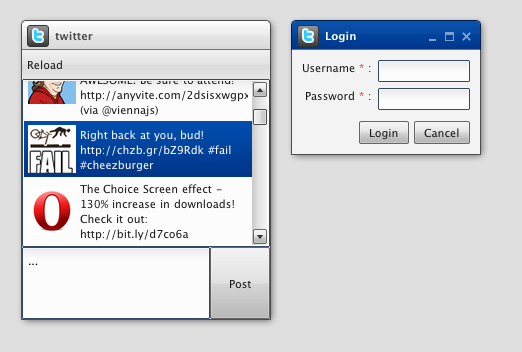
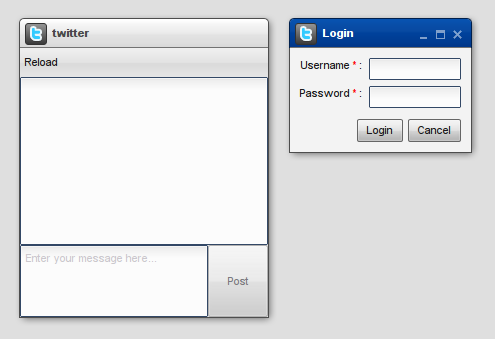
[BUG #3841] Updated the tutorial: The login window is now used for the initial authentication
git-svn-id: https://qooxdoo.svn.sourceforge.net/svnroot/qooxdoo/trunk/qooxdoo@22693 61aaf1ca-a10e-0410-b9fb-ac63ec25887f

Changed region(s): [[0.0303, 0.0295, 0.9697, 0.9735]]

diff --git a/documentation/manual/source/pages/tutorials/tutorial-part-4-1.rst b/documentation/manual/source/pages/tutorials/tutorial-part-4-1.rst
@@ -12,7 +12,7 @@ Before we get started, make sure you're working on the version of the Twitter tu
 The plan
 ========
 
-We want to create a new window with user name and password fields that pops up when the user clicks the "post" button. Provided the fields aren't empty, their values should be used in the YQL request that posts the Tweet. Seems simple enough, so let's get right down to business.
+We want to create a new window with user name and password fields that pops up when the Twitter application starts. The values will be used to retrieve the user's list of Tweets. Seems simple enough, so let's get right down to business.
 
 .. _pages/tutorials/tutorial-part-4-1#creating_the_login_window:
 
@@ -117,40 +117,62 @@ Then we add a listener to the submit button that retrieves the values from the m
     }
   }, this);
 
-And that's it for the LoginWindow class. Now to integrate it with the other parts of the application. ``TwitterService.post`` currently uses ``prompt()`` to ask for the user name and password, so we'll remove these two lines. Instead, we add two new arguments to the method:
+Tying it all together
+=====================
+
+Now to integrate the login window with the other parts of the application. Twitter's friends timeline uses .htaccess for authentication so we can add the login details to the request sent by ``TwitterService.fetchTweets()``:
 
 ::
 
-  post : function(message, username, password)
-
-The ``post()`` method is called from the main application class, so let's take another look at Application.js. We want to display the login window before posting, so we'll modify the "post" event listener's callback function (line 79). We need to create an instance of ``twitter.LoginWindow`` and attach a listener to its "changeLoginData" event which calls service.post() with the username and password values from the event data. We also want to make sure that only one LoginWindow instance is used during the application's runtime. This is a good idea because creating and disposing widgets is quite expensive in terms of CPU time. In our application, it also means users won't have to retype their login data for every post.
+  fetchTweets : function(username, password) {
+    if (this.__store == null) {
+      var login = "";
+      if (username != null) {
+        login = username + ":" + password + "@";
+      }
+      var url = "http://" + login + "twitter.com/statuses/friends_timeline.json";
+      this.__store = new qx.data.store.Jsonp(url, null, "callback");        
+      this.__store.bind("model", this, "tweets");
+    } else {
+      this.__store.reload();
+    }
+  },
 
 ::
 
-  // post handling
-  main.addListener("post", function(e) {
-    var msg = e.getData();
-    if (!this.__loginWindow) {
-      this.__loginWindow = new twitter.LoginWindow();
-      this.__loginWindow.addListener("changeLoginData", function(ev) {
-        var loginData = ev.getData();
-        service.post(msg, loginData.username, loginData.password);
-      });
-      this.__loginWindow.moveTo(320,30);
-      this.__loginWindow.open();
-    }
-    else {
-      this.__loginWindow.open();
-    }
-  }, this);
+All that's left is to show the login window when the application is started and call ``fetchTweets`` with the information from the ``changeLoginData`` event.
+In the main application class, we'll create an instance of twitter.LoginWindow, position it next to the MainWindow and open it:
+
+::
+
+  this.__loginWindow = new twitter.LoginWindow();
+  this.__loginWindow.moveTo(320,30);
+  this.__loginWindow.open();
+
+::
+
+And finally, we'll attach a listener to ``changeLoginData``:
+
+::
+
+  this.__loginWindow.addListener("changeLoginData", function(ev) {
+    var loginData = ev.getData();
+    service.fetchTweets(loginData.username, loginData.password);   
+  });
+
+::
+
+Note how all the other calls to ``service.fetchTweets`` can remain unchanged: By making the login window modal, we've made sure the first call, which creates the store, contains the login data. Any subsequent calls (i.e. after reloading or posting an update) will use the same store so they won't need the login details.
 
 OK, time to run ``generate.py source`` and load the application in a browser to make sure everything works like it's supposed to.
+
 
 |Twitter client application with login window|
 
 .. |Twitter client application with login window| image:: /pages/tutorials/step41.png
 
 Twitter client application with login window
+
 
 And that's it for the form handling chapter. As usual, you'll find the tutorial `code on GitHub <http://github.com/wittemann/qooxdoo-tutorial/tree/Step4-1-Forms>`_. Watch out for the next chapter, which will focus on developing your own custom widgets.
 
